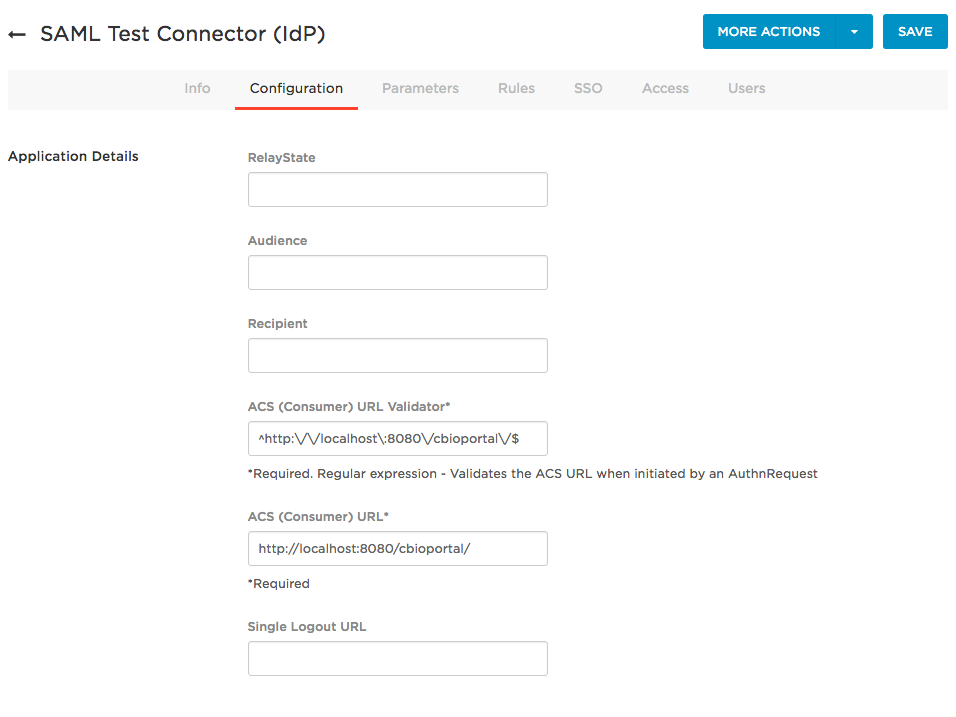
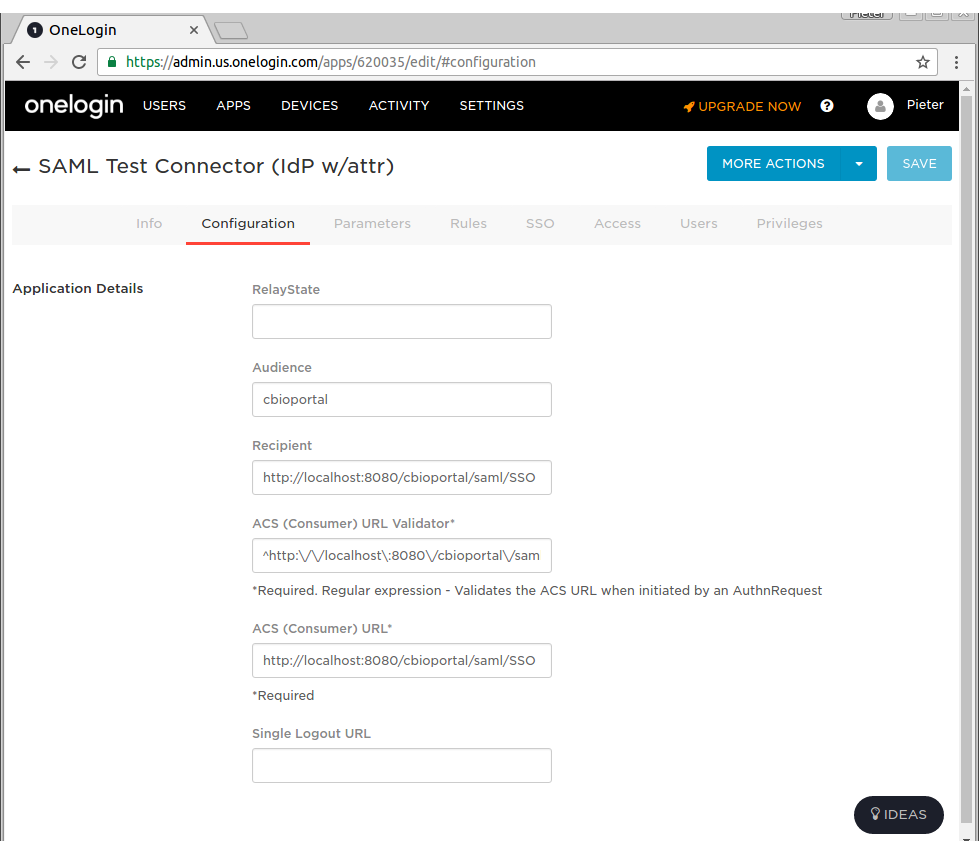
generic SAML support
alternative to the MSKCC specific one found in
MSKCCPortalUserDetailsService.java

new SAML setting for logout url, a.o.

simplified code and added support for empty users table scenario

added SAML documentation; and small notes/code style improvement

added error handling and better logging

for better support of scenario where 'mail' attribute is not found in
credential message

Added a note about the option of custom SAMLUserDetailsService

small fix in portal.properties.EXAMPLE

some extra parameters and got OneLogin working again :)

diff --git a/core/src/main/java/org/mskcc/cbio/portal/authentication/saml/SAMLUserDetailsServiceImpl.java b/core/src/main/java/org/mskcc/cbio/portal/authentication/saml/SAMLUserDetailsServiceImpl.java
@@ -1,0 +1,158 @@
+/*
+ * Copyright (c) 2016 The Hyve B.V.
+ * This code is licensed under the GNU Affero General Public License (AGPL),
+ * version 3, or (at your option) any later version.
+ */
+
+/*
+ * This file is part of cBioPortal.
+ *
+ * cBioPortal is free software: you can redistribute it and/or modify
+ * it under the terms of the GNU Affero General Public License as
+ * published by the Free Software Foundation, either version 3 of the
+ * License.
+ *
+ * This program is distributed in the hope that it will be useful,
+ * but WITHOUT ANY WARRANTY; without even the implied warranty of
+ * MERCHANTABILITY or FITNESS FOR A PARTICULAR PURPOSE.  See the
+ * GNU Affero General Public License for more details.
+ *
+ * You should have received a copy of the GNU Affero General Public License
+ * along with this program.  If not, see <http://www.gnu.org/licenses/>.
+*/
+
+package org.mskcc.cbio.portal.authentication.saml;
+
+import java.util.List;
+
+import org.apache.commons.logging.Log;
+import org.apache.commons.logging.LogFactory;
+import org.mskcc.cbio.portal.authentication.PortalUserDetails;
+import org.mskcc.cbio.portal.dao.PortalUserDAO;
+import org.mskcc.cbio.portal.model.User;
+import org.mskcc.cbio.portal.model.UserAuthorities;
+import org.mskcc.cbio.portal.util.GlobalProperties;
+import org.opensaml.saml2.core.Attribute;
+import org.springframework.dao.EmptyResultDataAccessException;
+import org.springframework.security.core.GrantedAuthority;
+import org.springframework.security.core.authority.AuthorityUtils;
+import org.springframework.security.core.userdetails.UsernameNotFoundException;
+import org.springframework.security.saml.SAMLCredential;
+import org.springframework.security.saml.userdetails.SAMLUserDetailsService;
+
+/**
+ * Custom UserDetailsService which parses SAML messages and checks authorization of
+ * user against cbioportal's `authorities` configuration. Authentication is done by the SAML IDP.
+ *
+ * @author Pieter Lukasse
+ */
+public class SAMLUserDetailsServiceImpl implements SAMLUserDetailsService
+{
+    private static final Log log = LogFactory.getLog(SAMLUserDetailsServiceImpl.class);
+    private final PortalUserDAO portalUserDAO;
+
+    /**
+     * Constructor.
+     *
+     * Takes a ref to PortalUserDAO used to check authorization of registered
+     * users in the database.
+     *
+     * @param portalUserDAO PortalUserDAO
+     */
+    public SAMLUserDetailsServiceImpl(PortalUserDAO portalUserDAO) {
+        this.portalUserDAO = portalUserDAO;
+    }          
+
+    /**
+     * Implementation of {@code SAMLUserDetailsService}. Parses user details from given 
+     * SAML credential object.
+     */
+    @Override
+    public Object loadUserBySAML(SAMLCredential credential)
+    {
+		PortalUserDetails toReturn = null;
+
+		String userId = null;
+		String emailAttributeName = GlobalProperties.getSamlIdpMetadataEmailAttributeName();
+		// get userid and name: iterate over attributes searching for "mail" and "displayName":
+        for (Attribute cAttribute : credential.getAttributes()) {
+        	log.debug("loadUserBySAML(), parsing attribute - " + cAttribute.toString());
+        	log.debug("loadUserBySAML(), parsing attribute - " + cAttribute.getName());
+        	log.debug("loadUserBySAML(), parsing attribute - " + credential.getAttributeAsString(cAttribute.getName()));
+        	if (userId == null && cAttribute.getName().equals(emailAttributeName))
+        	{
+        		userId = credential.getAttributeAsString(cAttribute.getName());
+        		//userid = credential.getNameID().getValue(); needed to support OneLogin...?? Although with OneLogin we haven't gotten this far yet...
+        	}
+        }
+
+		//check if this user exists in our DB
+		try {
+			//validate parsing:
+	        if (userId == null) {
+	        	String errorMessage = "loadUserBySAML(), Could not parse the user details from credential message. Expected 'mail' attribute, but attribute was not found. "
+	        			+ " Previous debug messages show which attributes were found and parsed.";
+	        	log.error(errorMessage);
+	        	throw new Exception(errorMessage);
+	        }
+			
+            log.debug("loadUserBySAML(), IDP successfully authenticated user, userid: " + userId);
+            log.debug("loadUserBySAML(), now attempting to fetch portal user authorities for userid: " + userId);
+            
+            //try to find user in DB. If not found, will go to catch (EmptyResultDataAccessException) below:
+            User user = portalUserDAO.getPortalUser(userId);
+        	if (user.isEnabled()) {
+                log.debug("loadUserBySAML(), user is enabled; attempting to fetch portal user authorities, userid: " + userId);
+
+                UserAuthorities authorities = portalUserDAO.getPortalUserAuthorities(userId);
+                if (authorities != null) {
+                    List<GrantedAuthority> grantedAuthorities =
+                        AuthorityUtils.createAuthorityList(authorities.getAuthorities().toArray(new String[authorities.getAuthorities().size()]));
+                    //add granted authorities:
+                    toReturn = new PortalUserDetails(userId, grantedAuthorities);
+                    toReturn.setEmail(userId);
+                    toReturn.setName(userId);
+                } else {
+                    log.debug("loadUserBySAML(), user authorities is null, userid: " + userId + ". Depending on property always_show_study_group, "
+                    		+ "he could still have default access (to PUBLIC studies)");
+                	toReturn = new PortalUserDetails(userId, getInitialEmptyAuthoritiesList());
+                    toReturn.setEmail(userId);
+                    toReturn.setName(userId);
+                }
+        	} else {
+        		//user WAS found in DB but has been actively disabled:
+        		throw new UsernameNotFoundException("Error: Your user access to cBioPortal has been disabled");
+        	}
+    		return toReturn;
+		}
+		catch (EmptyResultDataAccessException er) {
+			//user record not found at all in DB.
+			//if user is not in DB but is successfully authenticated, just give him the default empty access list.
+        	//Depending on GlobalProperties.getAlwaysShowStudyGroup() he could still have access to PUBLIC studies:
+            log.debug("loadUserBySAML(), user and user authorities is null, userid: " + userId + ". Depending on property always_show_study_group, "
+            		+ "he could still have default access (to PUBLIC studies)");
+        	return new PortalUserDetails(userId, getInitialEmptyAuthoritiesList());
+		}
+		catch (UsernameNotFoundException unnf) {
+			//throw this exception, so that the user gets redirected to the error HTML page: 
+			throw unnf;
+		}
+		catch (Exception e) {
+			//other (unexpected) errors: just throw (will result in http 500 page with error message):
+			log.error(e.getMessage());
+            e.printStackTrace();
+            throw new RuntimeException("Error during authentication parsing: " + e.getMessage());
+		}
+    }
+
+    /**
+     * Returns an initial empty authorities list.
+     * 
+     * @return
+     */
+    private List<GrantedAuthority> getInitialEmptyAuthoritiesList()
+    {
+        return AuthorityUtils.createAuthorityList(new String[0]);
+    }
+}
+

diff --git a/core/src/main/java/org/mskcc/cbio/portal/util/GlobalProperties.java b/core/src/main/java/org/mskcc/cbio/portal/util/GlobalProperties.java
@@ -181,6 +181,11 @@ public class GlobalProperties {
 
     // property for the saml entityid
     public static final String SAML_IDP_METADATA_ENTITYID="saml.idp.metadata.entityid";
+    // property for the name of the email attribute
+    public static final String SAML_IDP_METADATA_ATTRIBUTE_EMAIL="saml.idp.metadata.attribute.email";
+    public static final String DEFAULT_SAML_IDP_METADATA_ATTRIBUTE_EMAIL="mail";
+    // property for whether the SAML logout should be local (at SP level) or global (at IDP level). Default: false (global)
+    public static final String SAML_IS_LOGOUT_LOCAL="saml.logout.local";
 
     // property for the custom header tabs
     public static final String SKIN_CUSTOM_HEADER_TABS="skin.custom_header_tabs";
@@ -443,6 +448,20 @@ public class GlobalProperties {
     {
         return getProperty(SAML_IDP_METADATA_ENTITYID);
     }
+    // returns the name of the attribute containing user's email address in SAML IDP response message
+    public static String getSamlIdpMetadataEmailAttributeName()
+    {
+    	String emailAttributeName = properties.getProperty(SAML_IDP_METADATA_ATTRIBUTE_EMAIL);
+        return (emailAttributeName == null) ? DEFAULT_SAML_IDP_METADATA_ATTRIBUTE_EMAIL : emailAttributeName;
+    	
+    }
+    // returns whether the SAML logout should be local (at SP level) or global (at IDP level). Default: false (global)
+    public static String getSamlIsLogoutLocal()
+    {
+    	return properties.getProperty(SAML_IS_LOGOUT_LOCAL, "false");
+    }
+    
+    
     public static String getTagLineImage()
     {
         String tagLineImage = properties.getProperty(SKIN_TAG_LINE_IMAGE);

diff --git a/docs/Authenticating-Users-via-SAML.md b/docs/Authenticating-Users-via-SAML.md
@@ -2,9 +2,9 @@
 
 The cBioPortal includes support for SAML (Security Assertion Markup Language).  This document explains why you might find SAML useful, and how to configure SAML within your own instance of cBioPortal.
 
-Please note that configuring your local instance to support SAML requires many steps.  This includes configuration changes, a small amount of debugging and modest code changes.  If you follow the steps below, you should be up and running relatively quickly, but be forewarned that you may have do a few trial runs to get everything working.
+Please note that configuring your local instance to support SAML requires many steps.  This includes configuration changes and a small amount of debugging.  If you follow the steps below, you should be up and running relatively quickly, but be forewarned that you may have do a few trial runs to get everything working.
 
-In the documentation below, we also provide details on how to preform SAML authentication via a commercial company:  [OneLogin](https://www.onelogin.com/).  OneLogin provides a free tier for testing out SAML authentication, and is one of the easier options to get a complete SAML workflow set-up.  Once you have OneLogin working, you should then have enough information to transition to your final authentication service.
+In the documentation below, we also provide details on how to perform SAML authentication via a commercial company:  [OneLogin](https://www.onelogin.com/).  OneLogin provides a free tier for testing out SAML authentication, and is one of the easier options to get a complete SAML workflow set-up.  Once you have OneLogin working, you should then have enough information to transition to your final authentication service.
 
 ## What is SAML?
 
@@ -18,7 +18,7 @@ In its simplest terms, SAML boils down to four terms:
 
 * **authentication**:  a means of verifying that a user is who they purport to be.  Authentication is performed by the identify provider, by extracting the user name and password provided in a login form, and matching this with information stored in a database.
 
-* **authorization**:  defines resources a user can access.  When authorization is turned on with cBioPortal, users can only access cancer studies they are specifically authorized to view.  This enables one to store multiple cancer studies within a single instance of cBioPortal, but provide fine-grained control over which users can access which studies.  Authorization is implemented within the core cBioPortal code, and not the identify provider.
+* **authorization**:  defines resources a user can access.  When authorization is turned on with cBioPortal, users can only access cancer studies they are specifically authorized to view (or PUBLIC studies, [if the server has been configured to contain these](User-Authorization.md#configuring-public-studies)).  This enables one to store multiple cancer studies within a single instance of cBioPortal, but provide fine-grained control over which users can access which studies.  Authorization is implemented within the core cBioPortal code, and not the identify provider.
 
 ## Why is SAML Relevant to cBioPortal?
 
@@ -26,7 +26,10 @@ The cBioPortal code has no means of storing user name and passwords and no means
 
 # Setting up an Identity Provider
 
-As noted above, we provide details on how to preform SAML authentication via a commercial company:  [OneLogin](https://www.onelogin.com/).  OneLogin provides a free tier for testing out SAML authentication, and is one of the easier options to get a complete SAML workflow set-up.  Once you have OneLogin working, you should then have enough information to transition to your final authentication service.  As you follow the steps below, the following link may be helpful: [How to Use the OneLogin SAML Test Connector](https://support.onelogin.com/hc/en-us/articles/202673944-How-to-Use-the-OneLogin-SAML-Test-Connector).
+As noted above, we provide details on how to perform SAML authentication via a commercial company:  [OneLogin](https://www.onelogin.com/).  
+If you already have an IDP set up, you can skip this part and go to [Configuring SAML within cBioPortal](#configuring-saml-within-cbioportal).
+
+OneLogin provides a free tier for testing out SAML authentication, and is one of the easier options to get a complete SAML workflow set-up.  Once you have OneLogin working, you should then have enough information to transition to your final authentication service.  As you follow the steps below, the following link may be helpful: [How to Use the OneLogin SAML Test Connector](https://support.onelogin.com/hc/en-us/articles/202673944-How-to-Use-the-OneLogin-SAML-Test-Connector).
 
 To get started:
 
@@ -37,16 +40,38 @@ To get started:
 * [Login to OneLogin.com](https://app.onelogin.com/login).
 * Under Apps, Select Add Apps.
 * Search for SAML.
-* Select the option labeled: OneLogin SAML Test (IdP).
+* Select the option labeled: OneLogin SAML Test (IdP w/attr).
+* "SAVE" the app, then select the Configuration Tab.
+
+* Under the Configuration Tab for OneLogin SAML Test (IdP w/attr), paste the following fields (this is assuming you are testing everything via localhost).
+
+    * Audience: cbioportal
+    * Recipient: http://localhost:8080/cbioportal/saml/SSO
+    * ACS (Consumer) URL Validator*:  ^http:\/\/localhost\:8080\/cbioportal\/saml\/SSO$
+    * ACS (Consumer) URL*:  http://localhost:8080/cbioportal/saml/SSO
 
 ![](images/previews/onelogin-config.png)
 
-* Under the Configuration Tab for OneLogin SAML Test (IdP), paste the following fields (this is assuming you are testing everything via localhost).
 
-    * ACS (Consumer) URL Validator*:  ^http:\/\/localhost\:8080\/cbioportal\/$
-    * ACS (Consumer) URL*:  http://localhost:8080/cbioportal/
+* Add at least the parameters: 
+    * Email (Attribute)
+    * Email (SAML NameID)
 
-![](https://cloud.githubusercontent.com/assets/366003/17789818/ce5eb1c2-6561-11e6-9887-c373023e1acd.png)
+![](images/previews/onelogin-config-parameters.png)
+
+* Find your user in the "Users" menu
+
+![](images/previews/onelogin-users-search.png)
+
+* Link the SAML app to your user (click "New app" on the **+** icon found on the top right of the "Applications" table to do this - see screenshot below): 
+
+![](images/previews/onelogin-add-app.png)
+
+* Configure these **email** parameters in the Users menu:
+
+![](images/previews/onelogin-users.png)
+ 
+
 
 ## Downloading the SAML Test Connector Meta Data
 
@@ -92,52 +117,68 @@ Within portal.properties, make sure that:
 
     app.name=cbioportal
 
-Then, modify the section labeled `authentication`.  For example:
+Then, modify the section labeled `authentication`. See SAML parameters shown in example below:
 
     # authentication
     authenticate=saml
     authorization=true
-    googleplus.consumer.key=
-    googleplus.consumer.secret=
     saml.sp.metadata.entityid=cbioportal
-    saml.idp.metadata.location=classpath:/onelogin_metadata_448340.xml
-    saml.idp.metadata.entityid=https://app.onelogin.com/saml/metadata/448340
+    saml.idp.metadata.location=classpath:/onelogin_metadata_620035.xml
+    saml.idp.metadata.entityid=https://app.onelogin.com/saml/metadata/620035
     saml.keystore.location=classpath:/samlKeystore.jks
     saml.keystore.password=apollo1
     saml.keystore.private-key.key=secure-key
     saml.keystore.private-key.password=apollo2
     saml.keystore.default-key=secure-key
+    saml.idp.comm.binding.settings=defaultBinding
+    saml.idp.comm.binding.type=
+    saml.idp.metadata.attribute.email=User.email
+    saml.custom.userservice.class=org.mskcc.cbio.portal.authentication.saml.SAMLUserDetailsServiceImpl
+    # global logout (as opposed to local logout):
+    saml.logout.local=false
+    saml.logout.url=/
 
-Please note that you will have to modify all the above to match your own settings.
+Please note that you will have to modify all the above to match your own settings. `saml.idp.comm.binding.type` can be left empty if `saml.idp.comm.binding.settings=defaultBinding`. The `saml.logout.*` settings above reflect the settings of an IDP that supports Single Logout (hopefully the default in most cases - more details in section below).
+
+### Custom scenarios
+
+:information_source: Some settings may need to be adjusted to non-default values, depending on your IDP. For example, if your 
+IDP required HTTP-GET requests instead of HTTP-POST, you need to set these properties as such:
+ 
+    saml.idp.comm.binding.settings=specificBinding
+    saml.idp.comm.binding.type=bindings:HTTP-Redirect
+
+If you need a very different parsing of the SAML tokens than what is done at `org.mskcc.cbio.portal.authentication.saml.SAMLUserDetailsServiceImpl`, you can point the `saml.custom.userservice.class` to your own implementation: 
+
+    saml.custom.userservice.class=<your_package.your_class_name>
+
+:warning: The property `saml.idp.metadata.attribute.email` can also vary per IDP. It is important to set this correctly since this is a required field by the cBioPortal SAML parser (that is, if `org.mskcc.cbio.portal.authentication.saml.SAMLUserDetailsServiceImpl` is chosen for property `saml.custom.userservice.class`). 
+
+:warning: Some IDPs like to provide their own logout page (e.g. when they don't support the custom SAML Single Logout protocol). For this you can adjust the  
+`saml.logout.url` property to a custom URL provided by the IDP. Also set the `saml.logout.local=true` property in this case to indicate that global logout (or Single Logout) is not supported by IDP:
+
+    # local logout followed by a redirect to a global logout page:
+    saml.logout.local=true
+    saml.logout.url=<idp specific logout URL, e.g. https://idp.logoutpage.com >
+    
+
+## More customizations
+
+If your IDP does not have the flexibility of sending the specific credential fields expected by our 
+default "user details parsers" implementation (i.e. `core/src/main/java/org/mskcc/cbio/portal/authentication/saml/SAMLUserDetailsServiceImpl.java` 
+expects field `mail` to be present in the SAML credential), then please let us know via a [new 
+issue at our issue tracking system](https://github.com/cBioPortal/cbioportal/issues/new), so we can 
+evaluate whether this is a scenario we would like to support in the default code. You can also consider 
+adding your own version of the `SAMLUserDetailsService` class. The class [MSKCCPortalUserDetailsService.java](https://github.com/cBioPortal/cbioportal/blob/master/core/src/main/java/org/mskcc/cbio/portal/authentication/saml/MSKCCPortalUserDetailsService.java) is an 
+example of this.
+
 
 ## Authorizing Users
 
 Next, please read the Wiki page on [User Authorization](User-Authorization.md), and add user rights for a single user.
 
-## Modifying MSKCCPortalUserDetailsService.java
 
-This step requires that you make a modest amount of code changes.  You can either choose to modify:  [MSKCCPortalUserDetailsService.java](https://github.com/cBioPortal/cbioportal/blob/master/core/src/main/java/org/mskcc/cbio/portal/authentication/saml/MSKCCPortalUserDetailsService.java), or copy it and use as a reference.
-
-To get MSKCCPortalUserDetailsService.java working with OneLogin, you only need to make two changes:
-
-1.  Within ```initializeDefaultEmailSuffixes()```, add your email suffixes.  For example:
-
-```
-toReturn.add("harvard.edu");
-```
-
-2.  Modify user id and name.
-
-For example:
-
-```
--        String userid = credential.getAttributeAsString("/UserAttribute[@ldap:targetAttribute=\"mail\"]");
--        String name = credential.getAttributeAsString("/UserAttribute[@ldap:targetAttribute=\"displayName\"]");
-+        String userid = credential.getNameID().getValue();
-+        String name = credential.getNameID().getValue();
-```
-
-## Configuring the Login.jsp Page
+## Configuring the Login.jsp Page (not applicable to most external IDPs)
 
 The login page is configurable via the `portal.properties` properties `skin.authorization_message` and `skin.login.saml.registration_htm`. 
 For example in `skin.authorization_message` you can be set to something like this:
@@ -189,11 +230,16 @@ Getting this to work requires many steps, and can be a bit tricky.  If you get s
 # Change INFO to DEBUG, if you want to see debugging info on underlying libraries we use.
 log4j.rootLogger=DEBUG, a
 
-# Change INFO to DEBUG, if you want see debugging info on our packages only.
+# Change INFO to DEBUG, if you want see debugging info on our packages and spring security packages.
 log4j.category.org.mskcc=DEBUG
+log4j.logger.org.springframework.security=DEBUG
 ```
 
 Then, rebuild the WAR, redeploy, and try to authenticate again.  Your log file will then include hundreds of SAML-specific messages, even the full XML of each SAML message, and this should help you debug the error.
+
+### Seeing the SAML messages
+
+Another tool we can use to troubleshoot is SAML tracer (https://addons.mozilla.org/en-US/firefox/addon/saml-tracer/ ). You can add this to Firefox and it will give you an extra menu item in "Tools". Go through the loging steps and you will see the SAML messages that are sent by the IDP. 
 
 ### Obtaining the Service Provider Meta Data File
 
